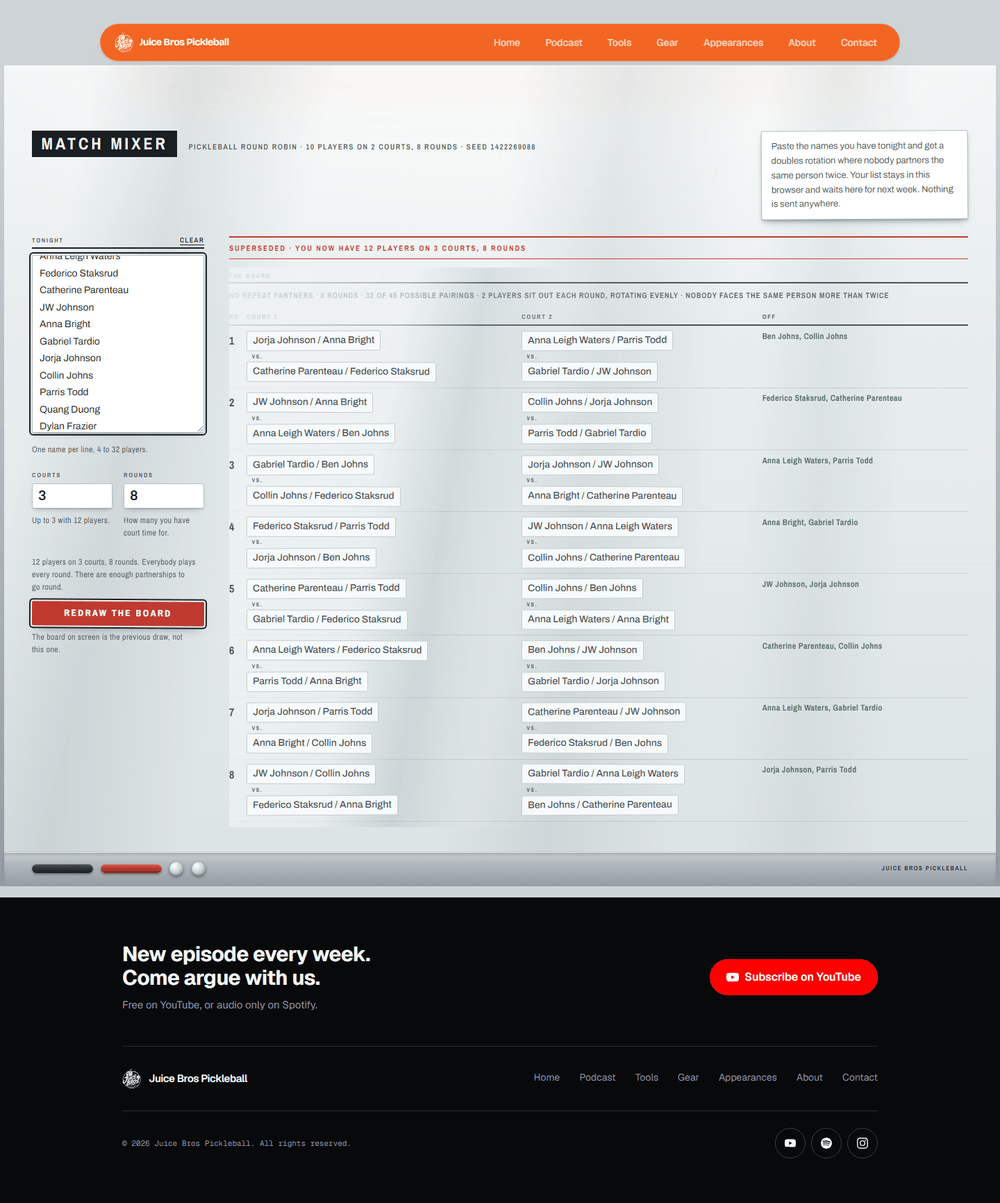
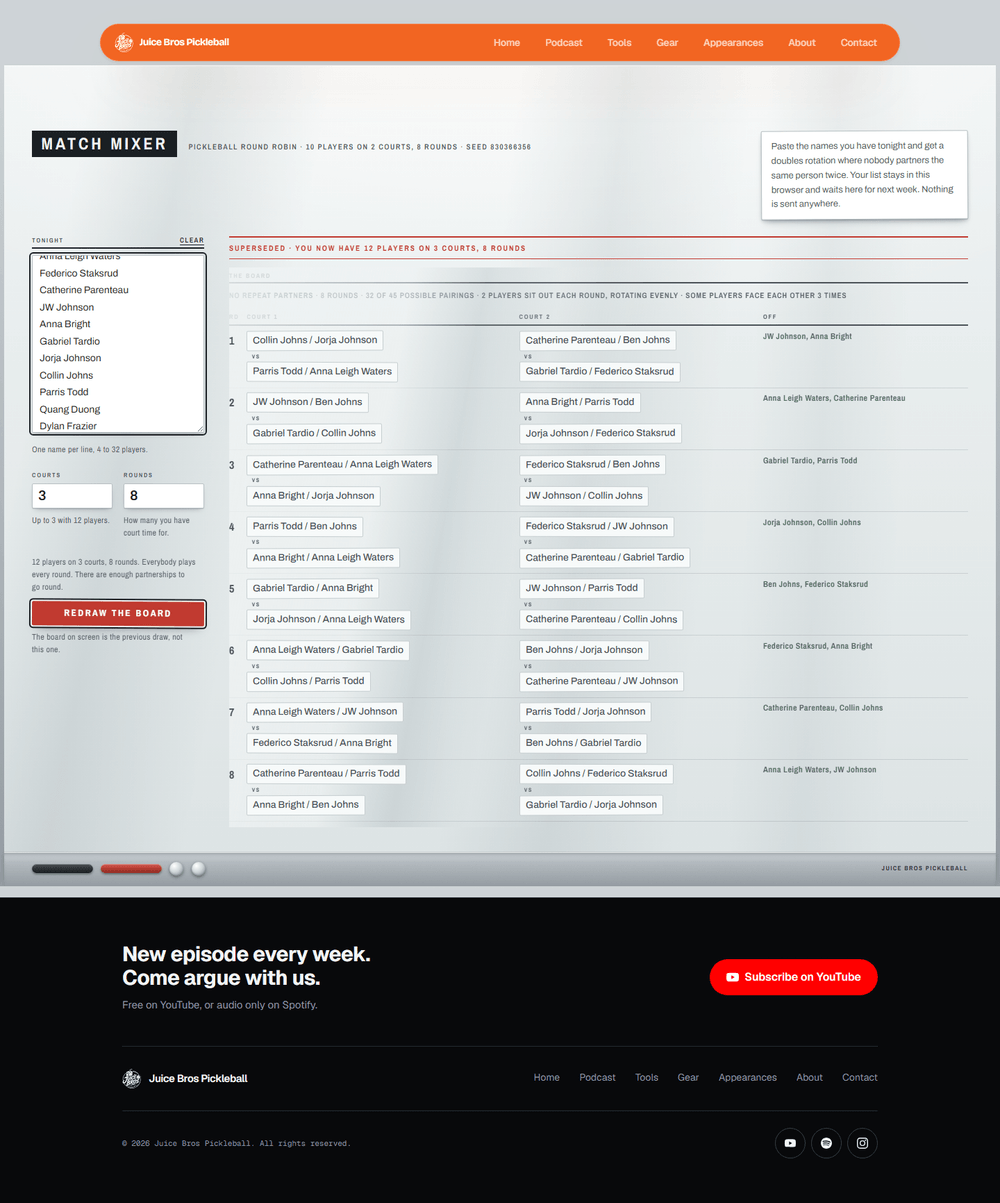
Match Mixer: VS, no period (#482)
A full stop after tracked all-caps is not how signage lettering is cut, and
at 0.22em the tracking left a gap after it that made the period float.

Claude-Session: https://claude.ai/code/session_01QeaTRBXvtfwRgSv4zUSdZv

diff --git a/src/components/apps/match-mixer/schedule-grid.tsx b/src/components/apps/match-mixer/schedule-grid.tsx
@@ -208,7 +208,7 @@ export function ScheduleGrid({
                 {round.games.map((game) => (
                   <td key={game.court} data-court={`Court ${game.court + 1}`}>
                     <Side roster={roster} score={score} team={game.teams[0]} />
-                    <span className="mm-versus">vs.</span>
+                    <span className="mm-versus">vs</span>
                     <Side roster={roster} score={score} team={game.teams[1]} />
                   </td>
                 ))}
